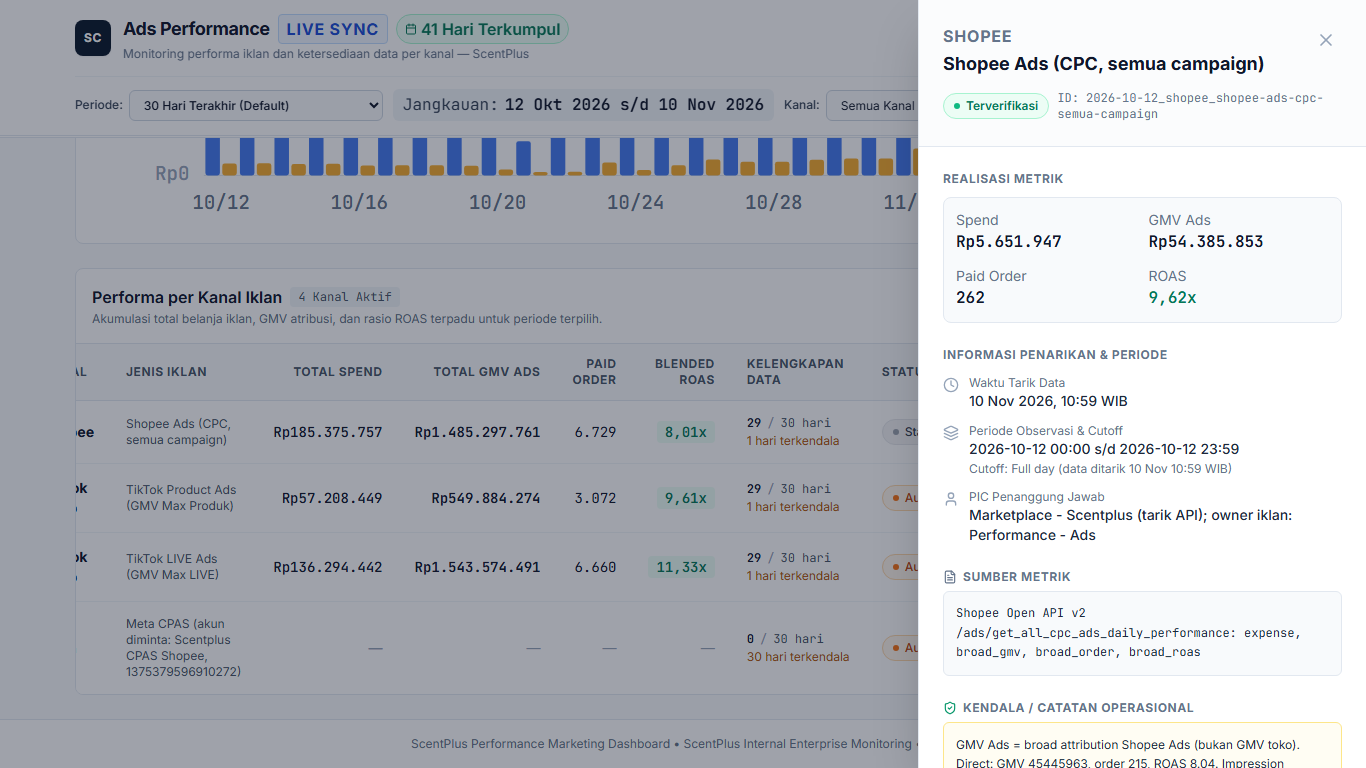
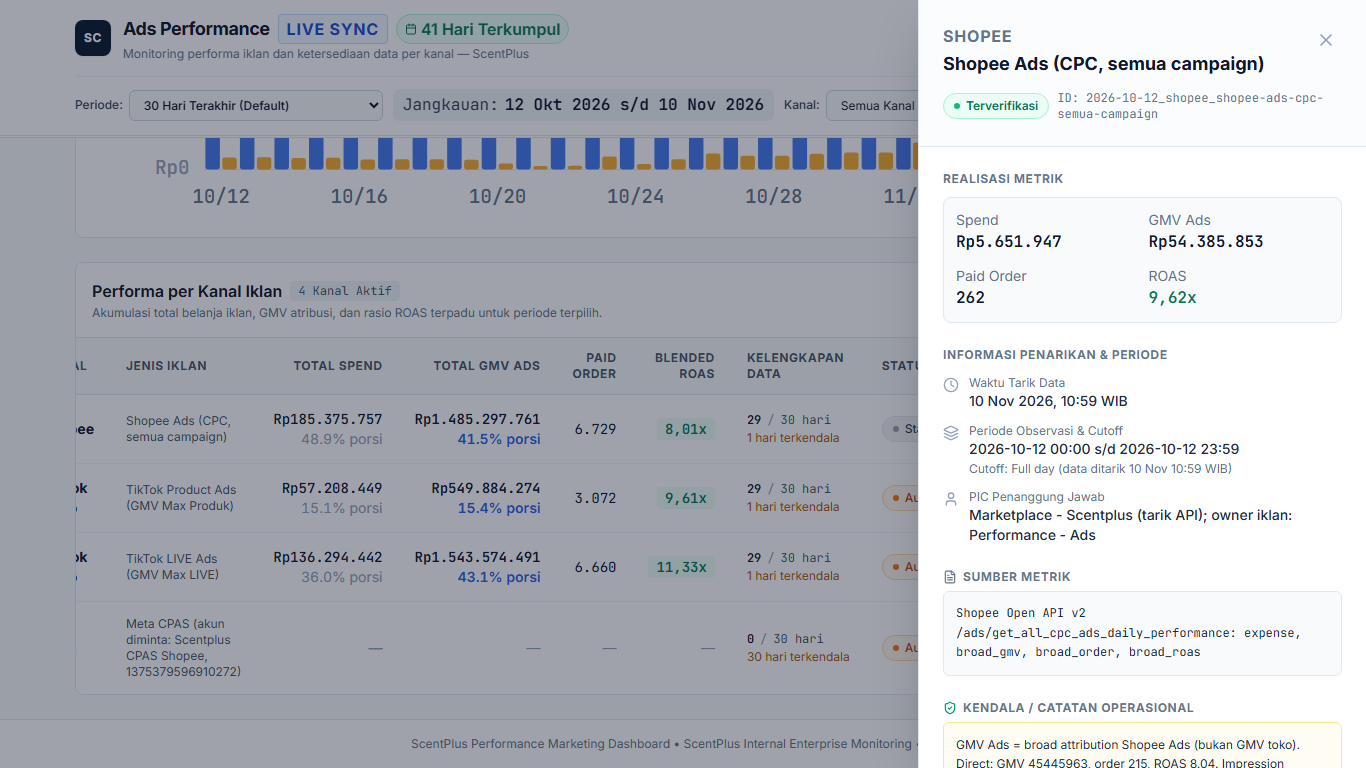
fix(ui): eliminate card overflow with 3-column layout, clean labels, and tabbed navigation

diff --git a/src/components/KpiSummary.tsx b/src/components/KpiSummary.tsx
@@ -18,7 +18,6 @@ interface KpiCardItem {
   value: string;
   subtitle: string;
   tooltip: string;
-  isCoverage?: boolean;
   hasWarning?: boolean;
 }
 
@@ -27,12 +26,13 @@ export const KpiSummary: React.FC<KpiSummaryProps> = ({ metrics }) => {
 
   const isPartial = metrics.validRecordsCount < metrics.totalExpectedRecordsCount && metrics.totalExpectedRecordsCount > 0;
 
+  // Grouped logically: Row 1 = Financials (Spend, GMV, ROAS); Row 2 = Volume & Operations (Orders, CPO, Coverage)
   const cards: KpiCardItem[] = [
     {
       id: 'spend',
       label: 'Total Spend',
       value: formatCurrencyIDR(metrics.totalSpend),
-      subtitle: isPartial ? `Dari ${metrics.validRecordsCount} kanal aktif` : 'Total belanja iklan',
+      subtitle: isPartial ? 'Belanja iklan terverifikasi' : 'Total biaya iklan',
       tooltip: 'Akumulasi pengeluaran iklan aktual dari kanal dengan status terverifikasi. Tidak menghitung kanal bermasalah sebagai Rp 0.',
       hasWarning: isPartial,
     },
@@ -40,60 +40,61 @@ export const KpiSummary: React.FC<KpiSummaryProps> = ({ metrics }) => {
       id: 'gmv',
       label: 'GMV Ads',
       value: formatCurrencyIDR(metrics.totalRevenue),
-      subtitle: isPartial ? 'Broad attribution (Shopee)' : 'Gross Merchandise Value',
+      subtitle: 'Gross Merchandise Value',
       tooltip: 'Realisasi pendapatan penjualan kotor yang diatribusikan ke iklan berbayar sesuai model atribusi platform masing-masing.',
-      hasWarning: isPartial,
-    },
-    {
-      id: 'orders',
-      label: 'Paid Orders',
-      value: formatNumber(metrics.totalOrders),
-      subtitle: isPartial ? `${metrics.validRecordsCount} kanal tersedia` : 'Total pesanan iklan',
-      tooltip: 'Total volume pesanan berbayar yang dihasilkan langsung melalui kampanye iklan berbayar.',
       hasWarning: isPartial,
     },
     {
       id: 'roas',
       label: 'Blended ROAS',
       value: formatRoas(metrics.blendedRoas),
-      subtitle: 'SUM(Rev) / SUM(Spend)',
+      subtitle: 'SUM(GMV) / SUM(Spend)',
       tooltip: 'Pengembalian riil belanja iklan terpadu (Total GMV / Total Spend). Bukan rata-rata angka ROAS masing-masing baris.',
+    },
+    {
+      id: 'orders',
+      label: 'Paid Orders',
+      value: formatNumber(metrics.totalOrders),
+      subtitle: 'Volume pesanan berbayar',
+      tooltip: 'Total volume pesanan berbayar yang dihasilkan langsung melalui kampanye iklan berbayar.',
+      hasWarning: isPartial,
     },
     {
       id: 'cpo',
       label: 'Spend per Order',
       value: formatCurrencyIDR(metrics.spendPerOrder),
-      subtitle: 'Biaya per paid order',
-      tooltip: 'Rata-rata biaya akuisisi belanja iklan untuk setiap pesanan berbayar (Total Spend / Total Paid Orders).',
+      subtitle: 'Biaya akuisisi per pesanan',
+      tooltip: 'Rata-rata biaya belanja iklan untuk setiap pesanan berbayar (Total Spend / Total Paid Orders).',
     },
     {
       id: 'coverage',
       label: 'Data Coverage',
       value: formatPercent(metrics.dataCoverage),
-      subtitle: `${metrics.validRecordsCount} dari ${metrics.totalExpectedRecordsCount} sumber`,
-      tooltip: 'Rasio kelengkapan data aktual dari kanal yang diharapkan terhubung pada periode aktif.',
-      isCoverage: true,
+      subtitle: `${metrics.validRecordsCount} dari ${metrics.totalExpectedRecordsCount} slot data terverifikasi`,
+      tooltip: 'Rasio kelengkapan data aktual dari seluruh kanal dan tanggal penarikan yang diharapkan.',
       hasWarning: metrics.dataCoverage < 1,
     },
   ];
 
   return (
     <section aria-label="Ringkasan Indikator Kinerja Utama (KPI)" className="mb-6">
-      <div className="grid grid-cols-2 sm:grid-cols-3 lg:grid-cols-6 gap-3.5">
+      {/* 3-Column spacious grid (2 rows of 3) ensuring full unclipped numbers across all screen sizes */}
+      <div className="grid grid-cols-1 sm:grid-cols-2 lg:grid-cols-3 gap-4">
         {cards.map(card => (
           <div
             key={card.id}
-            className={`relative bg-white rounded-lg border p-4 shadow-2xs transition-shadow hover:shadow-xs flex flex-col justify-between ${
-              card.hasWarning ? 'border-amber-200' : 'border-slate-200'
+            className={`relative bg-white rounded-lg border p-4 shadow-2xs transition-all hover:shadow-xs flex flex-col justify-between overflow-hidden ${
+              card.hasWarning ? 'border-amber-200/90' : 'border-slate-200'
             }`}
           >
             <div>
-              <div className="flex items-center justify-between gap-1 text-slate-500 mb-1.5">
-                <span className="text-xs font-semibold uppercase tracking-wider text-slate-600 truncate">
+              {/* Header Label + Info Tooltip */}
+              <div className="flex items-center justify-between gap-1 text-slate-500 mb-2">
+                <span className="text-xs font-bold uppercase tracking-wider text-slate-600">
                   {card.label}
                 </span>
 
-                <div className="relative inline-block">
+                <div className="relative inline-block flex-shrink-0">
                   <button
                     type="button"
                     aria-label={`Informasi untuk ${card.label}`}
@@ -112,7 +113,7 @@ export const KpiSummary: React.FC<KpiSummaryProps> = ({ metrics }) => {
                   {activeTooltip === card.id && (
                     <div
                       role="tooltip"
-                      className="absolute z-30 bottom-full right-0 mb-2 w-48 p-2.5 bg-slate-900 text-white text-xs rounded-md shadow-lg leading-normal pointer-events-none"
+                      className="absolute z-30 bottom-full right-0 mb-2 w-56 p-2.5 bg-slate-900 text-white text-xs rounded-md shadow-xl leading-normal pointer-events-none"
                     >
                       {card.tooltip}
                     </div>
@@ -120,19 +121,26 @@ export const KpiSummary: React.FC<KpiSummaryProps> = ({ metrics }) => {
                 </div>
               </div>
 
-              <div className="text-xl sm:text-2xl font-bold text-slate-900 tracking-tight font-sans tabular-nums py-0.5">
+              {/* Metric Value: Full unclipped number with optimal typography */}
+              <div
+                className="text-2xl sm:text-3xl font-bold text-slate-900 tracking-tight font-sans tabular-nums py-0.5 select-all"
+                title={card.value}
+              >
                 {card.value}
               </div>
             </div>
 
-            <div className="mt-2 pt-2 border-t border-slate-100 flex items-center justify-between text-2xs text-slate-500">
-              <span className="truncate">{card.subtitle}</span>
+            {/* Subtitle Footer */}
+            <div className="mt-3 pt-2.5 border-t border-slate-100 flex items-center justify-between text-xs text-slate-500">
+              <span className="truncate pr-1" title={card.subtitle}>
+                {card.subtitle}
+              </span>
               {card.hasWarning && (
                 <span
-                  title="Data parsial: sebagian sumber belum tersedia"
+                  title="Data parsial: sebagian sumber data belum tersedia"
                   className="text-amber-600 flex-shrink-0"
                 >
-                  <AlertCircle className="w-3 h-3" />
+                  <AlertCircle className="w-3.5 h-3.5" />
                 </span>
               )}
             </div>
@@ -142,4 +150,3 @@ export const KpiSummary: React.FC<KpiSummaryProps> = ({ metrics }) => {
     </section>
   );
 };
-

diff --git a/src/components/PerformanceTrend.tsx b/src/components/PerformanceTrend.tsx
@@ -193,63 +193,63 @@ export const PerformanceTrend: React.FC<PerformanceTrendProps> = ({ records }) =
       {highlights && distinctDatesCount >= 2 && (
         <div className="grid grid-cols-2 md:grid-cols-4 gap-3">
           {/* Best ROAS Day */}
-          <div className="bg-white border border-emerald-200/80 rounded-lg p-3.5 shadow-2xs">
+          <div className="bg-white border border-emerald-200/80 rounded-lg p-3.5 shadow-2xs overflow-hidden min-w-0">
             <div className="flex items-center gap-1.5 text-2xs font-bold uppercase tracking-wider text-emerald-800">
-              <Award className="w-3.5 h-3.5 text-emerald-600" />
-              <span>ROAS Tertinggi</span>
+              <Award className="w-3.5 h-3.5 text-emerald-600 flex-shrink-0" />
+              <span className="truncate">ROAS Tertinggi</span>
             </div>
-            <div className="mt-1 flex items-baseline gap-1.5">
-              <span className="text-xl font-bold font-mono text-emerald-700">
+            <div className="mt-1 flex items-baseline gap-1.5 truncate">
+              <span className="text-lg sm:text-xl font-bold font-mono text-emerald-700">
                 {formatRoas(highlights.peakRoasDay.roas)}
               </span>
-              <span className="text-xs text-slate-500 font-mono">
+              <span className="text-2xs text-slate-500 font-mono truncate">
                 ({formatDateWIB(highlights.peakRoasDay.date)})
               </span>
             </div>
-            <div className="text-2xs text-slate-500 mt-0.5">
+            <div className="text-2xs text-slate-500 mt-0.5 truncate">
               GMV {formatCurrencyIDR(highlights.peakRoasDay.revenue)} &bull; Spend {formatCurrencyIDR(highlights.peakRoasDay.spend)}
             </div>
           </div>
 
           {/* Peak GMV Day */}
-          <div className="bg-white border border-blue-200/80 rounded-lg p-3.5 shadow-2xs">
+          <div className="bg-white border border-blue-200/80 rounded-lg p-3.5 shadow-2xs overflow-hidden min-w-0">
             <div className="flex items-center gap-1.5 text-2xs font-bold uppercase tracking-wider text-blue-800">
-              <Zap className="w-3.5 h-3.5 text-blue-600" />
-              <span>Peak GMV Ads</span>
+              <Zap className="w-3.5 h-3.5 text-blue-600 flex-shrink-0" />
+              <span className="truncate">Peak GMV Ads</span>
             </div>
-            <div className="mt-1 flex items-baseline gap-1.5">
-              <span className="text-xl font-bold font-mono text-blue-900">
+            <div className="mt-1 flex items-baseline gap-1.5 truncate">
+              <span className="text-lg sm:text-xl font-bold font-mono text-blue-900 truncate">
                 {formatCurrencyIDR(highlights.peakGmvDay.revenue)}
               </span>
             </div>
-            <div className="text-2xs text-slate-500 mt-0.5">
+            <div className="text-2xs text-slate-500 mt-0.5 truncate">
               {formatDateWIB(highlights.peakGmvDay.date)} &bull; {formatNumber(highlights.peakGmvDay.orders)} order
             </div>
           </div>
 
           {/* Average Daily Spend */}
-          <div className="bg-white border border-slate-200 rounded-lg p-3.5 shadow-2xs">
-            <div className="text-2xs font-bold uppercase tracking-wider text-slate-500">
+          <div className="bg-white border border-slate-200 rounded-lg p-3.5 shadow-2xs overflow-hidden min-w-0">
+            <div className="text-2xs font-bold uppercase tracking-wider text-slate-500 truncate">
               Rata-rata Spend / Hari
             </div>
-            <div className="text-xl font-bold font-mono text-slate-900 mt-1">
+            <div className="text-lg sm:text-xl font-bold font-mono text-slate-900 mt-1 truncate">
               {formatCurrencyIDR(highlights.avgSpend)}
             </div>
-            <div className="text-2xs text-slate-500 mt-0.5">
+            <div className="text-2xs text-slate-500 mt-0.5 truncate">
               Total {formatCurrencyIDR(highlights.totalSpend)} ({highlights.validDays} hari aktif)
             </div>
           </div>
 
           {/* Average Daily GMV */}
-          <div className="bg-white border border-slate-200 rounded-lg p-3.5 shadow-2xs">
-            <div className="text-2xs font-bold uppercase tracking-wider text-slate-500">
+          <div className="bg-white border border-slate-200 rounded-lg p-3.5 shadow-2xs overflow-hidden min-w-0">
+            <div className="text-2xs font-bold uppercase tracking-wider text-slate-500 truncate">
               Rata-rata GMV / Hari
             </div>
-            <div className="text-xl font-bold font-mono text-slate-900 mt-1">
+            <div className="text-lg sm:text-xl font-bold font-mono text-slate-900 mt-1 truncate">
               {formatCurrencyIDR(highlights.avgRevenue)}
             </div>
-            <div className="text-2xs text-slate-500 mt-0.5">
-              Blended ROAS periode: <strong className="text-emerald-700">{formatRoas(highlights.blendedRoas)}</strong>
+            <div className="text-2xs text-slate-500 mt-0.5 truncate">
+              Blended ROAS: <strong className="text-emerald-700">{formatRoas(highlights.blendedRoas)}</strong>
             </div>
           </div>
         </div>

diff --git a/src/components/ChannelTable.tsx b/src/components/ChannelTable.tsx
@@ -83,8 +83,14 @@ export const ChannelTable: React.FC<ChannelTableProps> = ({
       map.set(key, cur);
     }
 
+    const totalPeriodSpend = Array.from(map.values()).reduce((acc, cur) => acc + (cur.hasSpend ? cur.spend : 0), 0);
+    const totalPeriodRevenue = Array.from(map.values()).reduce((acc, cur) => acc + (cur.hasRevenue ? cur.revenue : 0), 0);
+
     return Array.from(map.values()).map(item => {
       const blendedRoas = item.hasSpend && item.spend > 0 ? item.revenue / item.spend : null;
+      const spendShare = totalPeriodSpend > 0 && item.hasSpend ? (item.spend / totalPeriodSpend) * 100 : 0;
+      const revenueShare = totalPeriodRevenue > 0 && item.hasRevenue ? (item.revenue / totalPeriodRevenue) * 100 : 0;
+
       return {
         channel: item.channel,
         adType: item.adType,
@@ -92,6 +98,8 @@ export const ChannelTable: React.FC<ChannelTableProps> = ({
         totalRevenue: item.hasRevenue ? item.revenue : null,
         totalOrders: item.hasOrders ? item.orders : null,
         blendedRoas,
+        spendShare,
+        revenueShare,
         totalDays: item.totalDays,
         verifiedDays: item.verifiedDays,
         partialDays: item.partialDays,
@@ -210,7 +218,12 @@ export const ChannelTable: React.FC<ChannelTableProps> = ({
                     {/* Total Spend */}
                     <td className="px-4 py-3.5 whitespace-nowrap text-right font-mono tabular-nums text-slate-900 font-medium">
                       {item.totalSpend !== null ? (
-                        formatCurrencyIDR(item.totalSpend)
+                        <div>
+                          <div>{formatCurrencyIDR(item.totalSpend)}</div>
+                          <div className="text-3xs text-slate-400 font-sans font-normal">
+                            {item.spendShare.toFixed(1)}% porsi
+                          </div>
+                        </div>
                       ) : (
                         <span className="text-slate-400 font-sans">—</span>
                       )}
@@ -219,7 +232,12 @@ export const ChannelTable: React.FC<ChannelTableProps> = ({
                     {/* Total GMV */}
                     <td className="px-4 py-3.5 whitespace-nowrap text-right font-mono tabular-nums text-slate-900 font-bold">
                       {item.totalRevenue !== null ? (
-                        formatCurrencyIDR(item.totalRevenue)
+                        <div>
+                          <div>{formatCurrencyIDR(item.totalRevenue)}</div>
+                          <div className="text-3xs text-blue-600 font-sans font-semibold">
+                            {item.revenueShare.toFixed(1)}% porsi
+                          </div>
+                        </div>
                       ) : (
                         <span className="text-slate-400 font-sans font-normal">—</span>
                       )}

diff --git a/src/types/ads.ts b/src/types/ads.ts
@@ -72,6 +72,8 @@ export interface ChannelAggregatedSummary {
   totalRevenue: number | null;
   totalOrders: number | null;
   blendedRoas: number | null;
+  spendShare: number;
+  revenueShare: number;
   totalDays: number;
   verifiedDays: number;
   partialDays: number;
